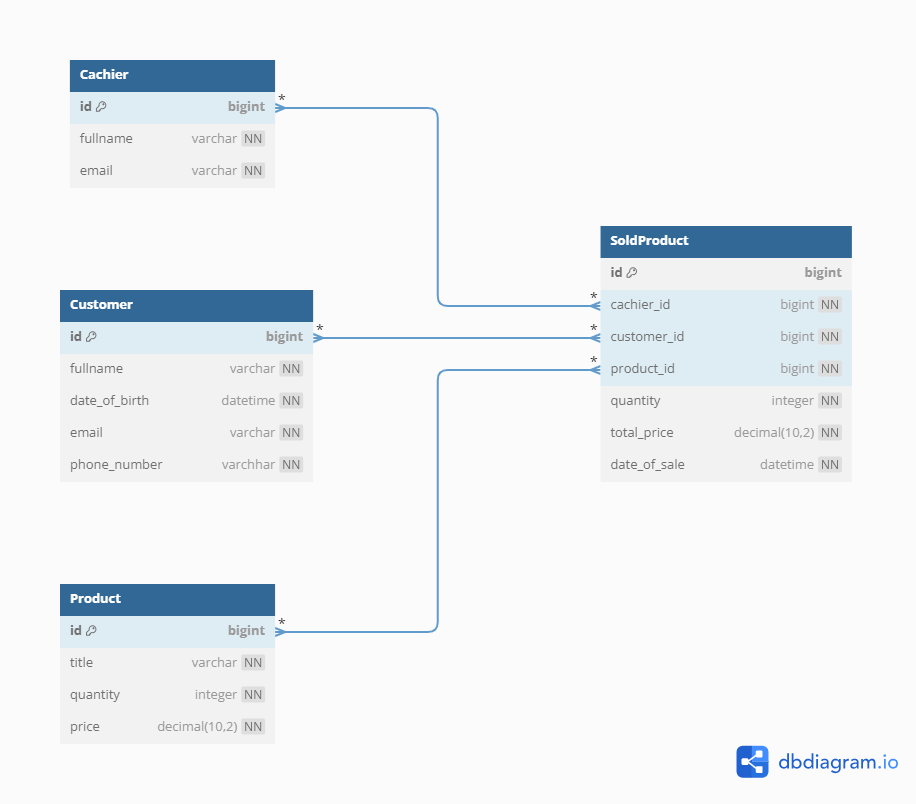
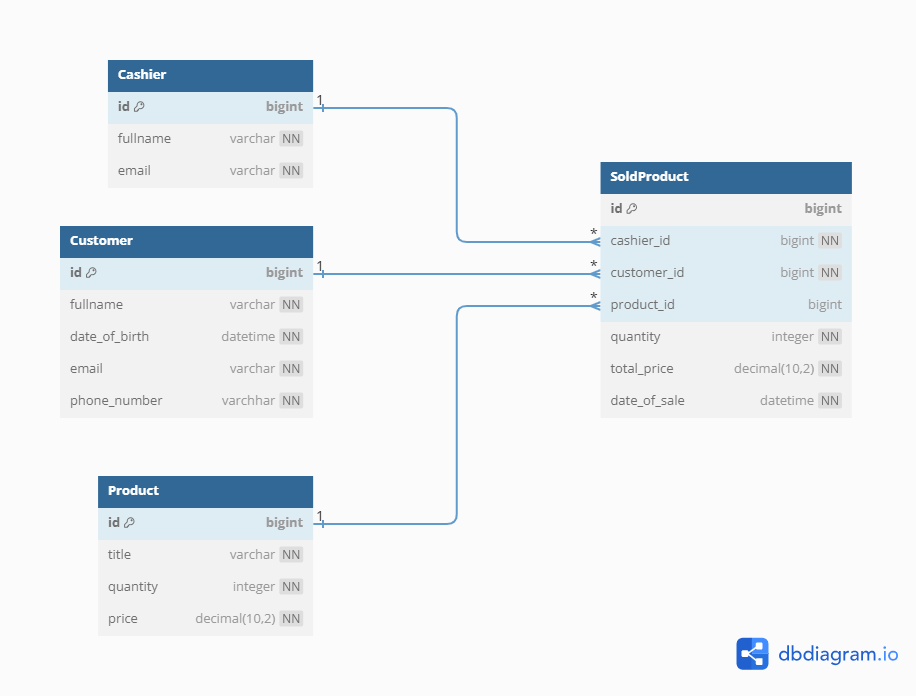
[queries] feat: add query for delete least sold

diff --git a/alembic/versions/2024_04_17_2232-6b791c55304c_nullable_product_id.py b/alembic/versions/2024_04_17_2232-6b791c55304c_nullable_product_id.py
@@ -1,0 +1,66 @@
+"""nullable_product_id
+
+Revision ID: 6b791c55304c
+Revises: db4b9acbc494
+Create Date: 2024-04-17 22:32:29.393779
+
+"""
+
+from typing import Sequence, Union
+
+import sqlalchemy as sa
+
+from alembic import op
+
+# revision identifiers, used by Alembic.
+revision: str = "6b791c55304c"
+down_revision: Union[str, None] = "db4b9acbc494"
+branch_labels: Union[str, Sequence[str], None] = None
+depends_on: Union[str, Sequence[str], None] = None
+
+
+def upgrade() -> None:
+    # ### commands auto generated by Alembic - please adjust! ###
+    op.alter_column(
+        "sold_product",
+        "product_id",
+        existing_type=sa.BIGINT(),
+        nullable=True,
+    )
+    op.drop_constraint(
+        "fk_sold_product_product_id_product",
+        "sold_product",
+        type_="foreignkey",
+    )
+    op.create_foreign_key(
+        op.f("fk_sold_product_product_id_product"),
+        "sold_product",
+        "product",
+        ["product_id"],
+        ["id"],
+        ondelete="SET NULL",
+    )
+    # ### end Alembic commands ###
+
+
+def downgrade() -> None:
+    # ### commands auto generated by Alembic - please adjust! ###
+    op.drop_constraint(
+        op.f("fk_sold_product_product_id_product"),
+        "sold_product",
+        type_="foreignkey",
+    )
+    op.create_foreign_key(
+        "fk_sold_product_product_id_product",
+        "sold_product",
+        "product",
+        ["product_id"],
+        ["id"],
+    )
+    op.alter_column(
+        "sold_product",
+        "product_id",
+        existing_type=sa.BIGINT(),
+        nullable=False,
+    )
+    # ### end Alembic commands ###

diff --git a/src/repositories/product_repository.py b/src/repositories/product_repository.py
@@ -1,6 +1,6 @@
 from collections.abc import Iterable
 
-from sqlalchemy import asc, desc, func, select
+from sqlalchemy import asc, delete, desc, func, select
 from sqlalchemy.ext.asyncio import AsyncSession, async_sessionmaker
 
 from src.models import ProductModel, SoldProductModel
@@ -58,3 +58,22 @@ class ProductRepository:
             )
             result = await session.scalar(statement)
         return result
+
+    async def delete_least_sold(self, top_n: int) -> None:
+        async with self.sessionmaker() as session:
+            least_selling_ids_subquery = (
+                select(SoldProductModel.product_id)
+                .group_by(SoldProductModel.product_id)
+                .order_by(
+                    asc(func.sum(SoldProductModel.quantity)),
+                    asc(SoldProductModel.product_id)
+                )
+                .limit(top_n)
+            )  # fmt: skip
+            statement = (
+                delete(ProductModel)
+                .where(ProductModel.id.in_(least_selling_ids_subquery))
+            )  # fmt: skip
+
+            await session.execute(statement)
+            await session.commit()

diff --git a/tests/test_product_repository.py b/tests/test_product_repository.py
@@ -1,6 +1,7 @@
 from decimal import Decimal
 
 import pytest
+from sqlalchemy import select
 
 from src.models import ProductModel
 from src.repositories.product_repository import ProductRepository
@@ -53,3 +54,22 @@ async def test_get_cheapest_from_best_selling(sut: ProductRepository) -> None:
     # Assert
     assert result is not None
     assert result.id == 14
+
+
+@pytest.mark.asyncio
+async def test_delete_leas_sold(sut: ProductRepository) -> None:
+    # Arrange
+    await store_mock_data(sut.sessionmaker)
+    async with sut.sessionmaker() as session:
+        all_product_ids_before = await session.scalars(select(ProductModel.id))
+
+    # Act
+    await sut.delete_least_sold(top_n=5)
+
+    # Assert
+    async with sut.sessionmaker() as session:
+        all_product_ids_after = await session.scalars(select(ProductModel.id))
+
+    expected_deleted_ids = {1, 2, 3, 4, 5}
+    deleted_ids = set(all_product_ids_before).difference(all_product_ids_after)
+    assert expected_deleted_ids == deleted_ids

diff --git a/src/models/sold_product.py b/src/models/sold_product.py
@@ -20,4 +20,9 @@ class SoldProductModel(Base):
 
     cashier_id: Mapped[int] = mapped_column(ForeignKey("cashier.id"))
     customer_id: Mapped[int] = mapped_column(ForeignKey("customer.id"))
-    product_id: Mapped[int] = mapped_column(ForeignKey("product.id"))
+    product_id: Mapped[int | None] = mapped_column(
+        ForeignKey(
+            column="product.id",
+            ondelete="SET NULL",
+        )
+    )

diff --git a/README.md b/README.md
@@ -65,3 +65,18 @@ _Товары с одинаковым количеством продаж сор
     - `src.repositories.product_repository.ProductRepository.get_cheapest_from_best_selling`
 - **Тест**
     - `tests.test_product_repository.test_get_cheapest_from_best_selling`
+
+---
+
+7. Удалить наименее продаваемые товары
+   
+Интерпретировал как:
+_Удалить топ N наименее продаваемых товаров._  
+_Товары с одинаковым количеством продаж сортируются в порядке возрастания их id_  
+_При удалении товара проставлять Null в таблицу SoldProduct_
+
+- **Запрос**
+    - `src.repositories.product_repository.ProductRepository.delete_least_sold`
+- **Тест**
+    - `tests.test_product_repository.test_delete_leas_sold`
+---
